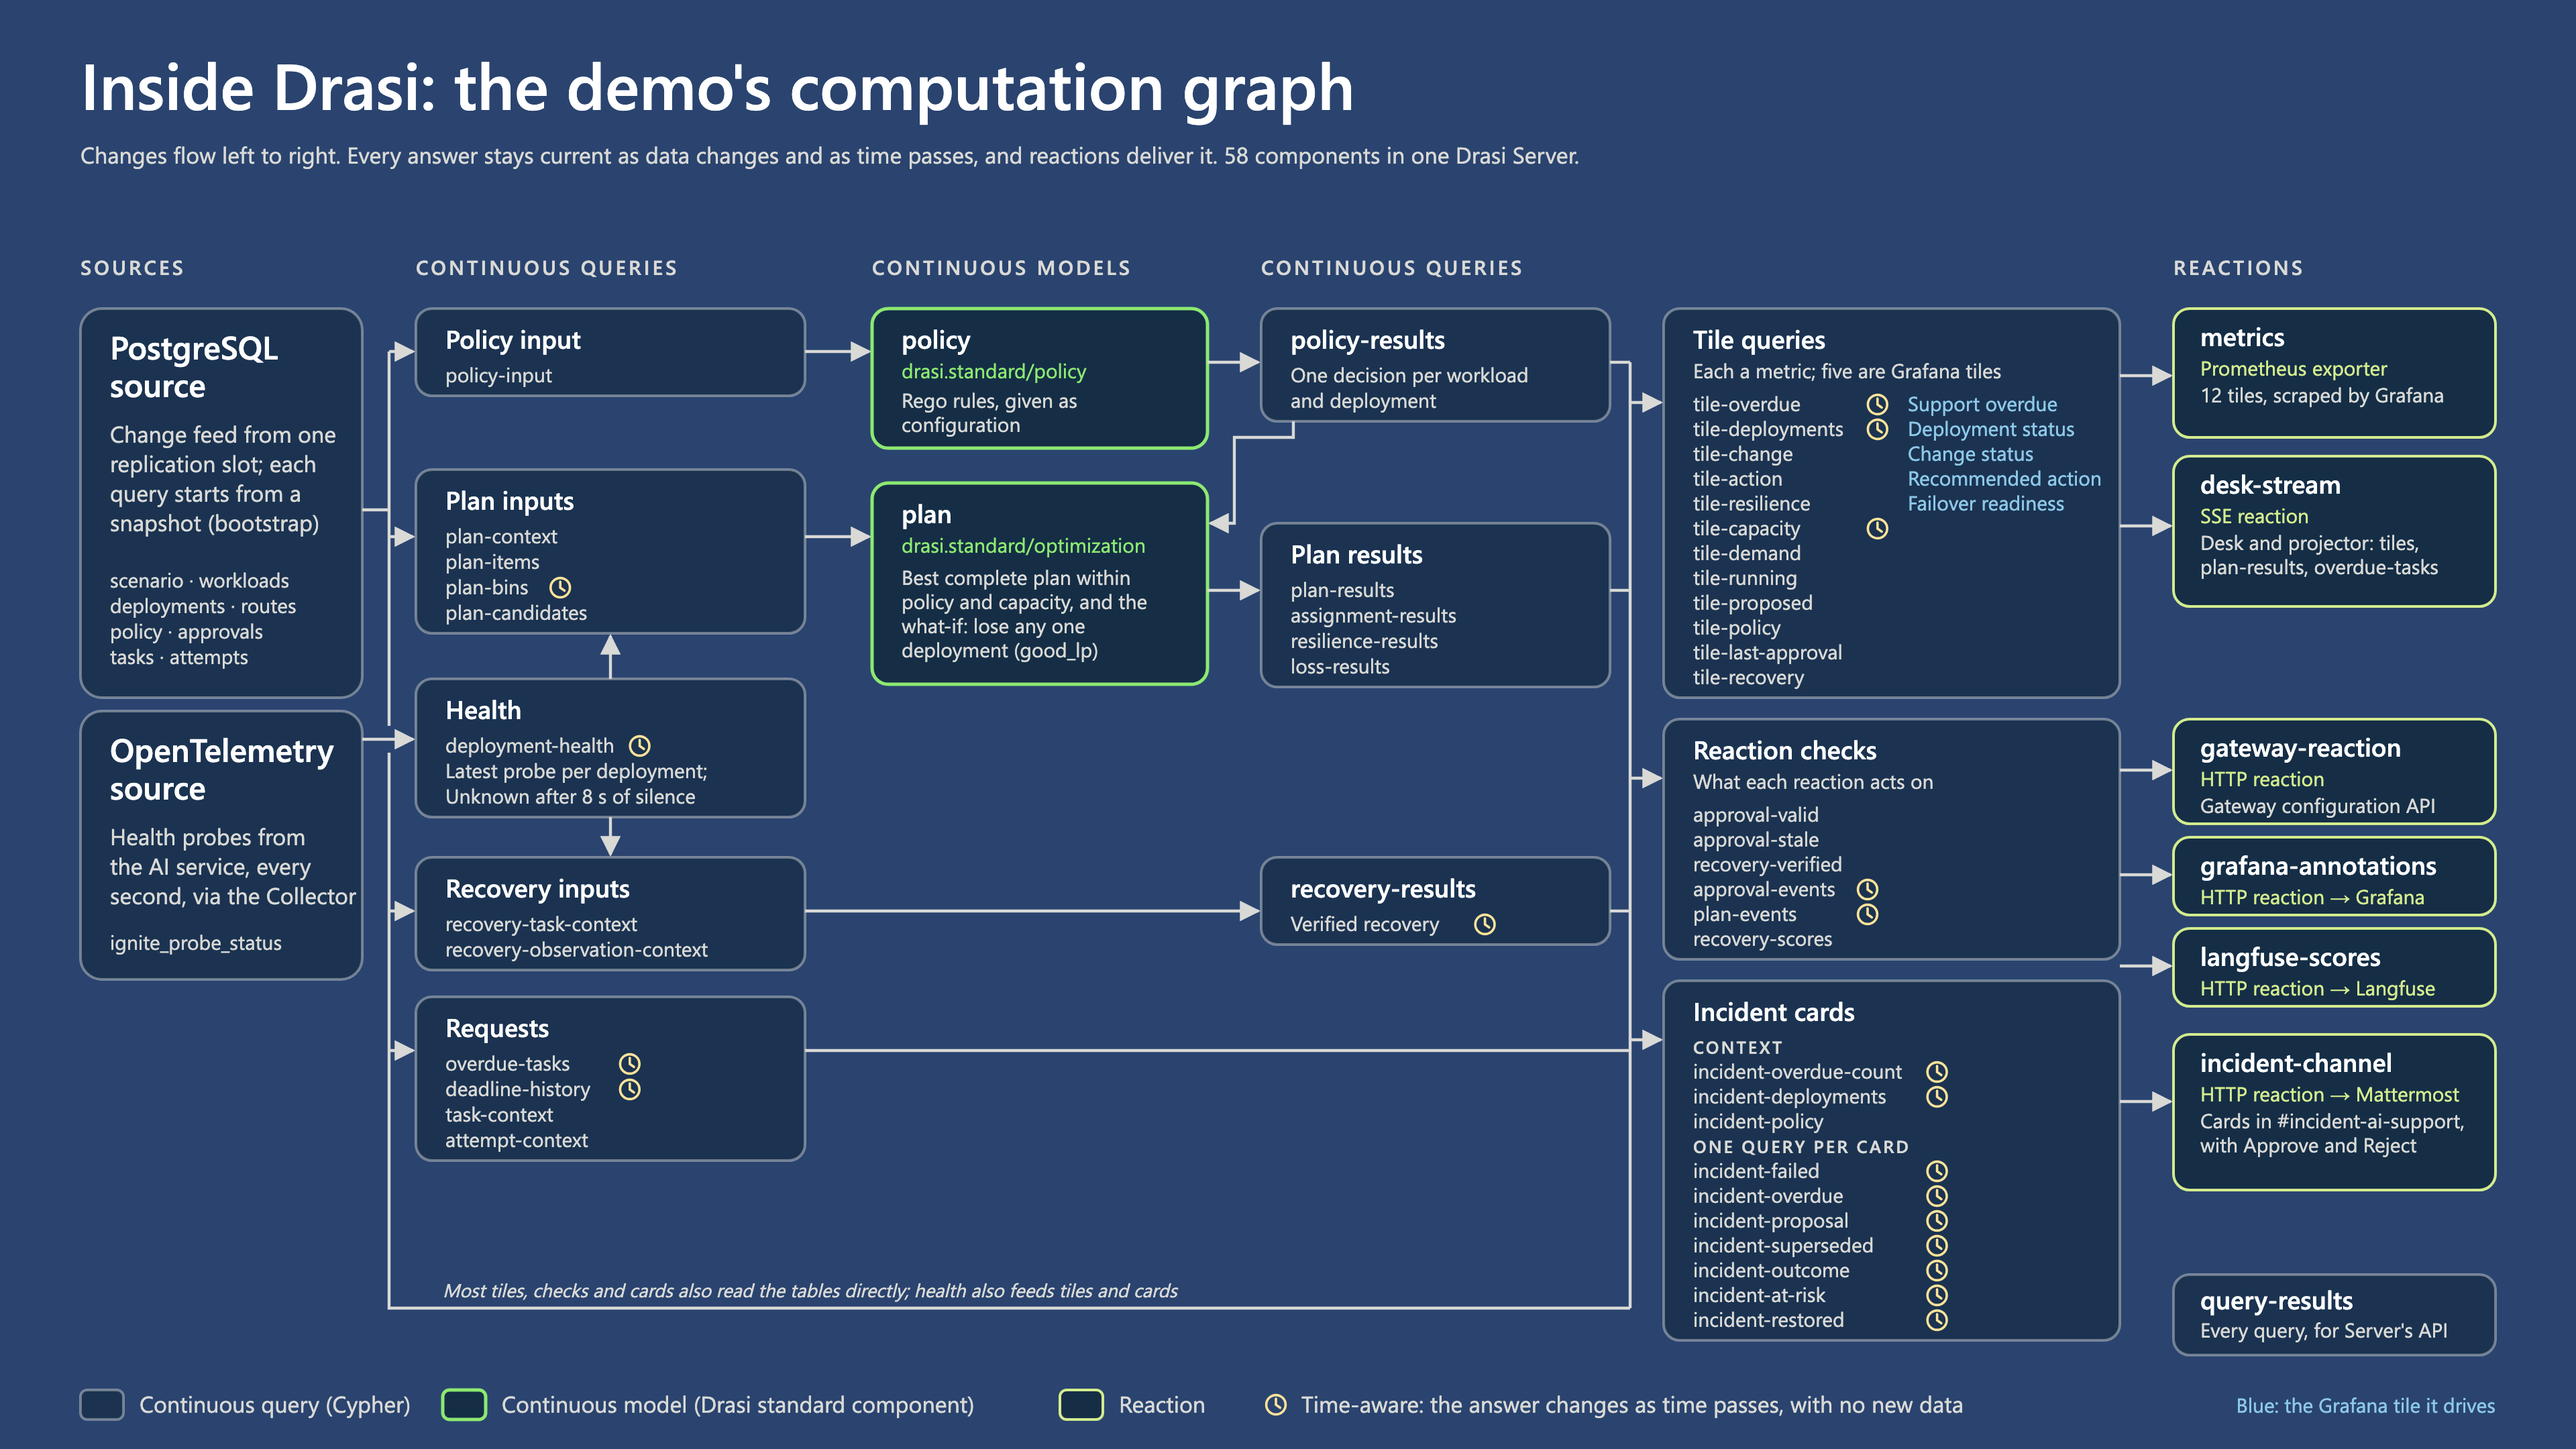
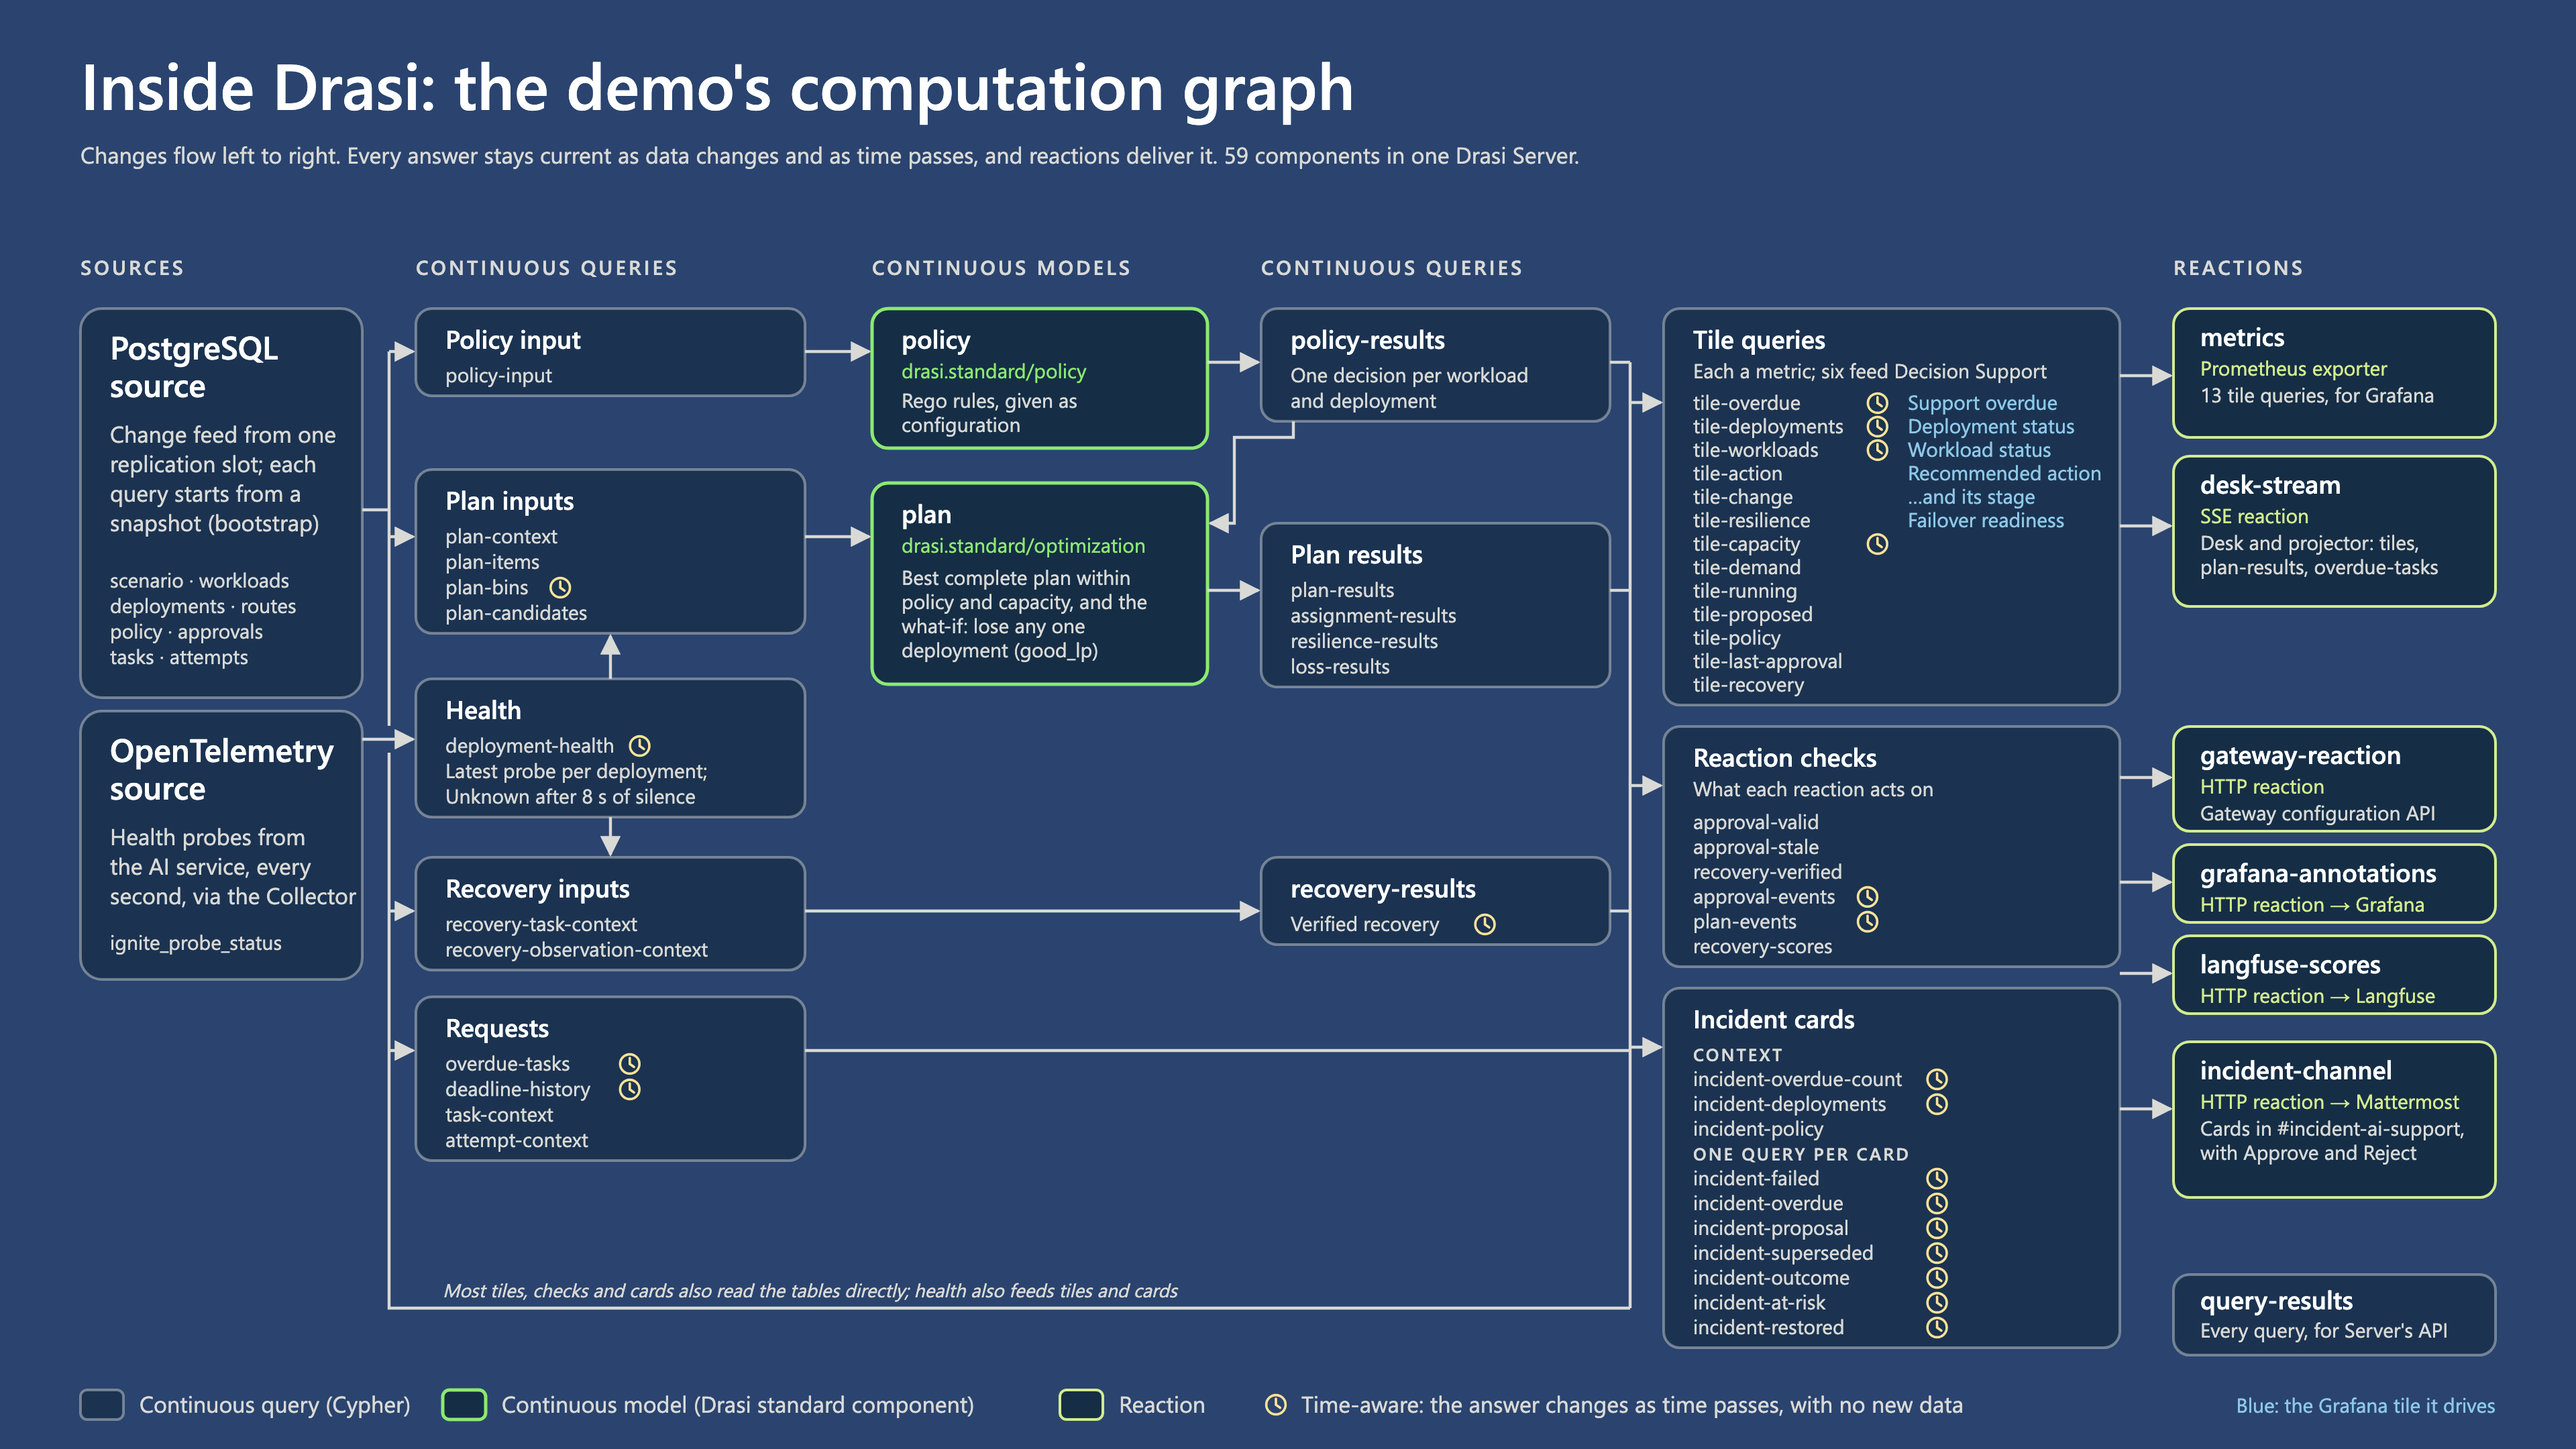
Ignite diagrams and notes: tile-workloads, 59 components; alert list named in the failure beat

Changed region(s): [[0.625, 0.2481, 0.9688, 0.9306], [0.875, 0.2481, 0.9375, 0.2792]]

diff --git a/presentations/2026-11-19_Ignite/presentation/notes.ts b/presentations/2026-11-19_Ignite/presentation/notes.ts
@@ -98,7 +98,7 @@ export const notes: Record<SceneId, Cue> = {
         watch: "Red card Deployment failed: EU-A, then the orange Proposed change card with Approve and Reject, the newest at the bottom." },
       { show: "ops", highlight: ["ignite-workload.ai-deployments"],
         say: "Back on the dashboard, the top half catches up: calls fail, errors and the queue climb, and Grafana's alert fires; it posts to the channel too. Something is wrong.",
-        watch: "Support errors red, Support queue rising, Alerts firing 1 or 2 (the second is an alert on Drasi's overdue answer)." },
+        watch: "Support errors red, Support queue rising; Alerts firing lists Model calls failing, then Support requests overdue (Drasi), an alert on Drasi's answer." },
       { show: "ops", highlight: ["ignite-workload.support-overdue", "ignite-workload.support-waiting"],
         say: "And Support overdue is climbing. Each request has a 15-second deadline. When a request passes it, nothing happens to that request: no new row, no new metric. Drasi counts it at that exact moment anyway, because its query re-checks each request at its deadline. On the chart, the red overdue line follows the orange waiting line 15 seconds later. Nothing re-scans the database: Drasi reacts to each change and each deadline, which is why its proposal was in the channel before Grafana's alert fired.",
         watch: "Support overdue above 0; on the right-hand chart, the red line trails the orange one." },

diff --git a/presentations/2026-11-19_Ignite/PRESENTER.md b/presentations/2026-11-19_Ignite/PRESENTER.md
@@ -236,7 +236,7 @@ Say it in your own words.
 4. **Mattermost · #incident-ai-support.** The team doesn't live on a dashboard, though. This is their incident channel in Mattermost. Drasi posted here as soon as EU-A failed, and its proposed change is already waiting, with an Approve button. Grafana hasn't alerted yet. We'll come back to the proposal.
    - **Watch for:** Red card Deployment failed: EU-A, then the orange Proposed change card with Approve and Reject, the newest at the bottom.
 5. **Grafana · Operations.** Back on the dashboard, the top half catches up: calls fail, errors and the queue climb, and Grafana's alert fires; it posts to the channel too. Something is wrong.
-   - **Watch for:** Support errors red, Support queue rising, Alerts firing 1 or 2 (the second is an alert on Drasi's overdue answer).
+   - **Watch for:** Support errors red, Support queue rising; Alerts firing lists Model calls failing, then Support requests overdue (Drasi), an alert on Drasi's answer.
 6. **Grafana · Operations.** And Support overdue is climbing. Each request has a 15-second deadline. When a request passes it, nothing happens to that request: no new row, no new metric. Drasi counts it at that exact moment anyway, because its query re-checks each request at its deadline. On the chart, the red overdue line follows the orange waiting line 15 seconds later. Nothing re-scans the database: Drasi reacts to each change and each deadline, which is why its proposal was in the channel before Grafana's alert fired.
    - **Watch for:** Support overdue above 0; on the right-hand chart, the red line trails the orange one.
 
